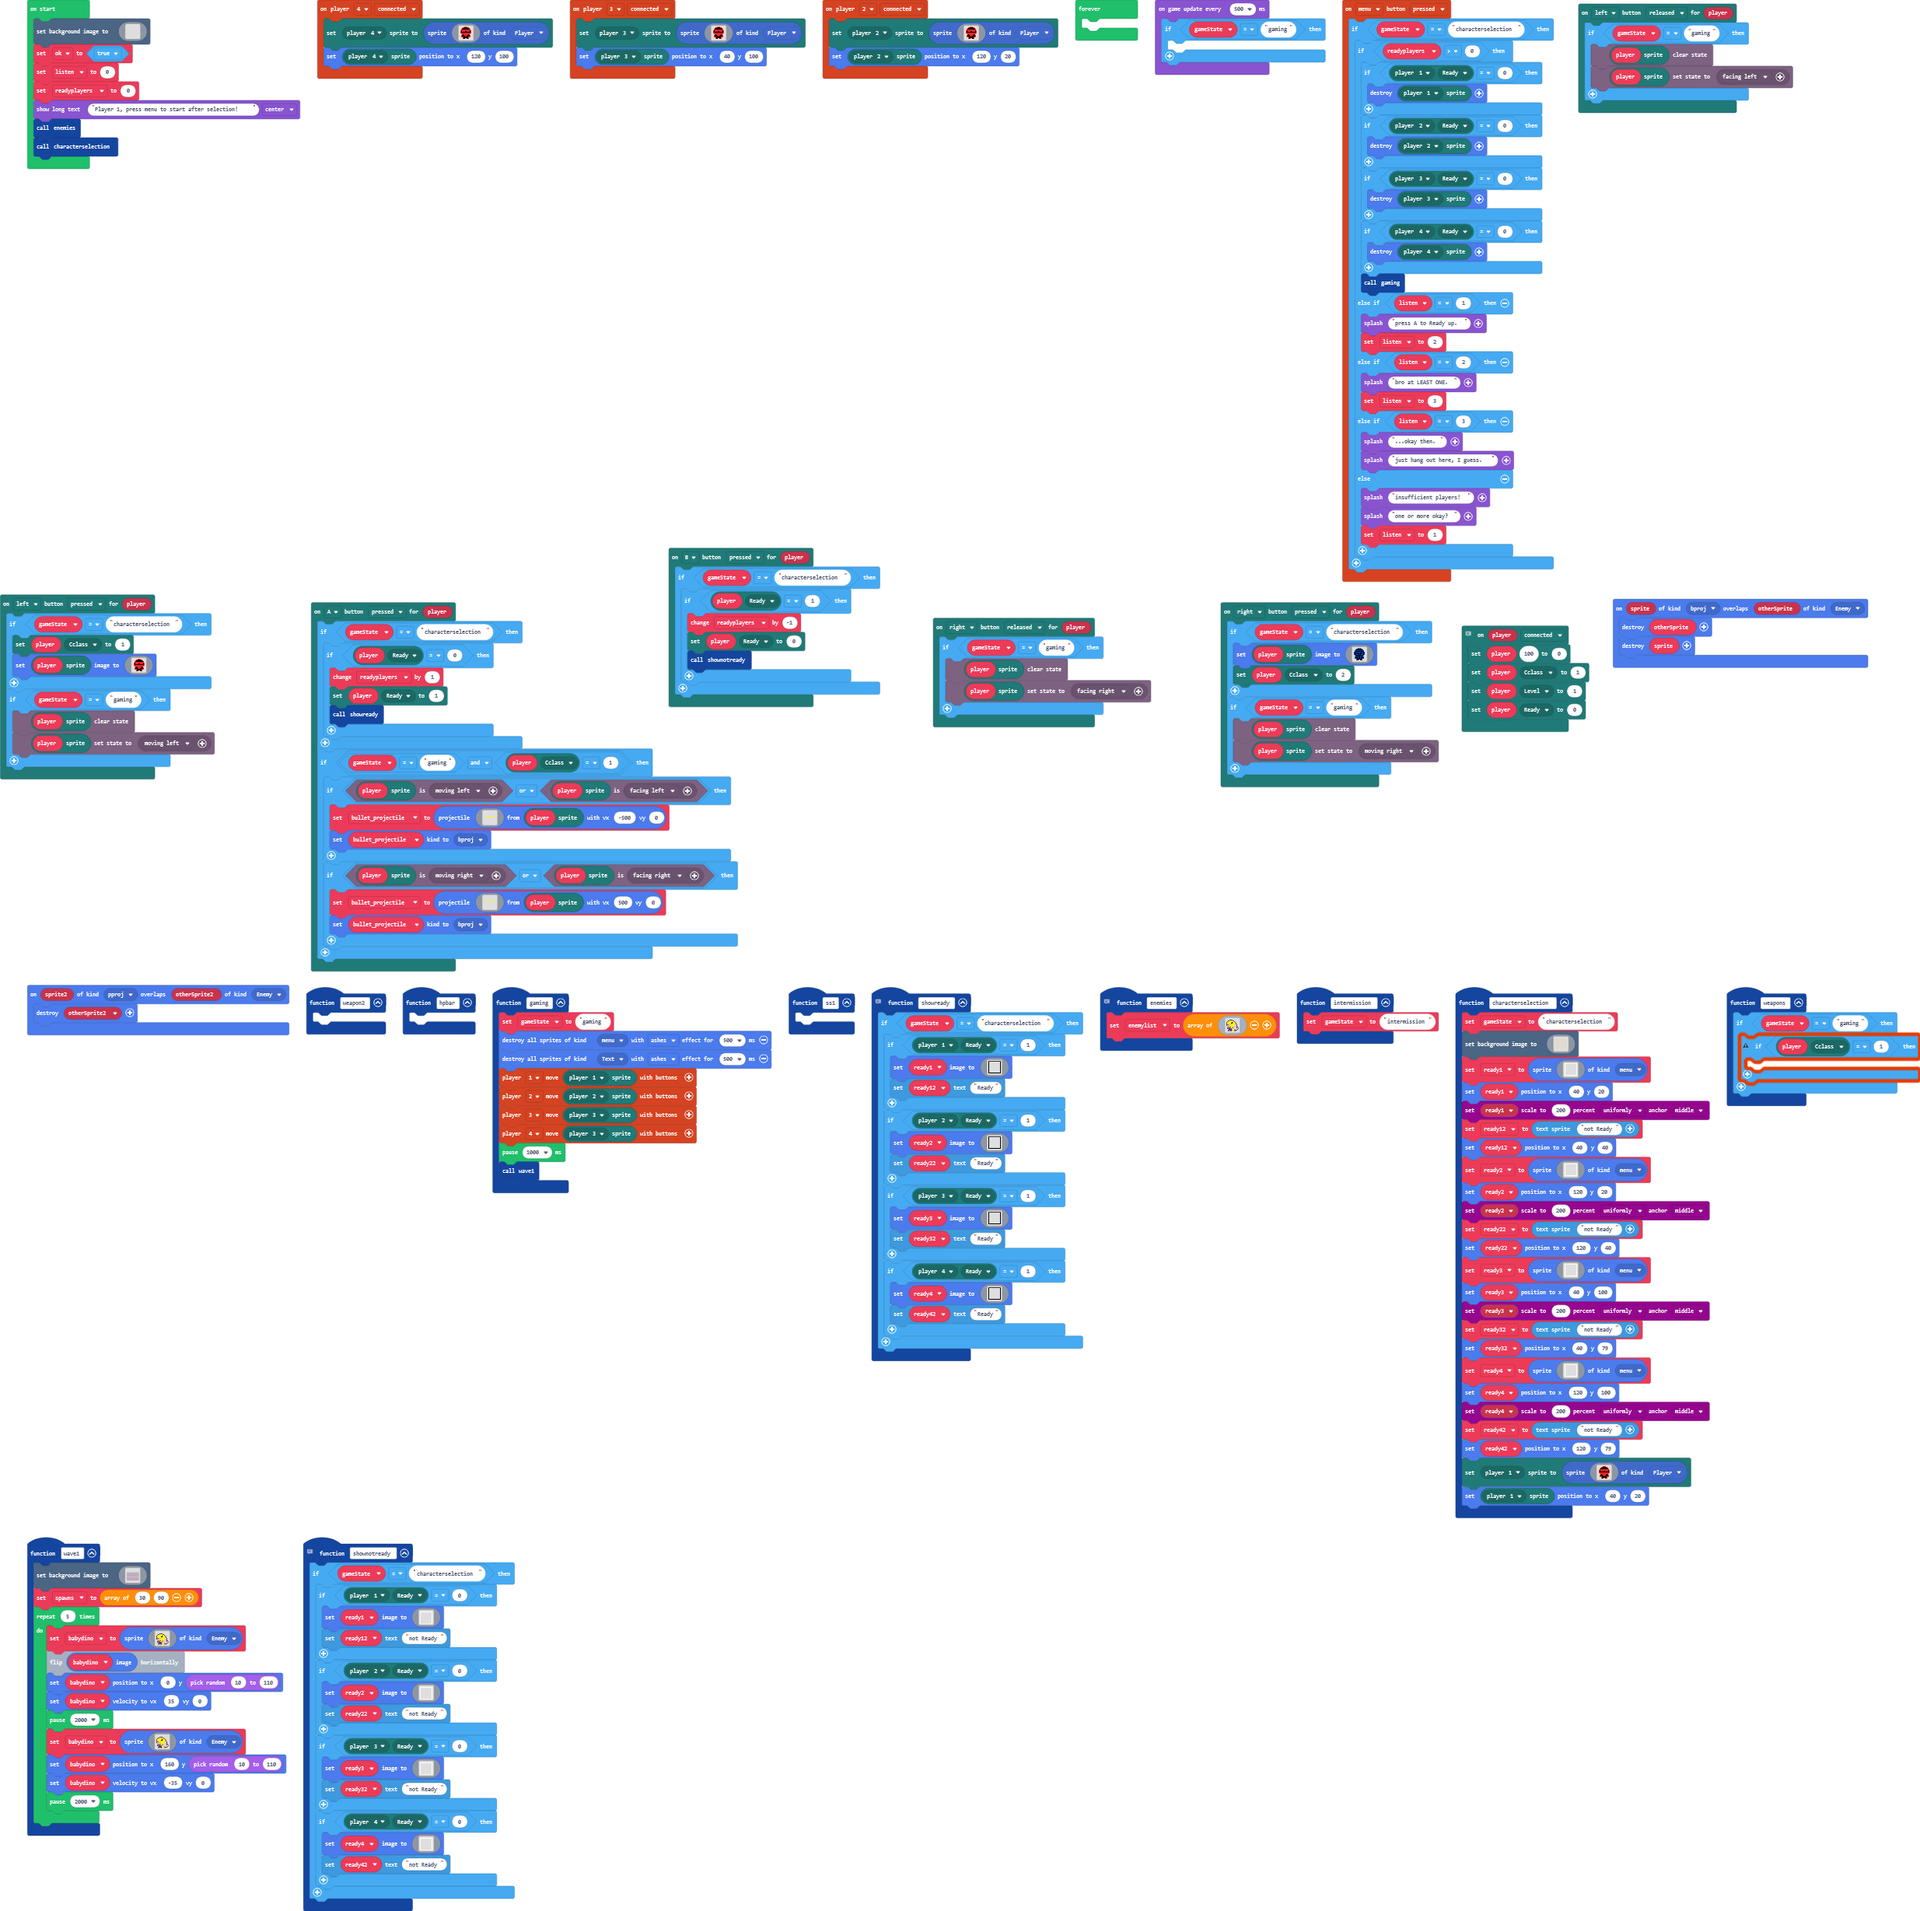
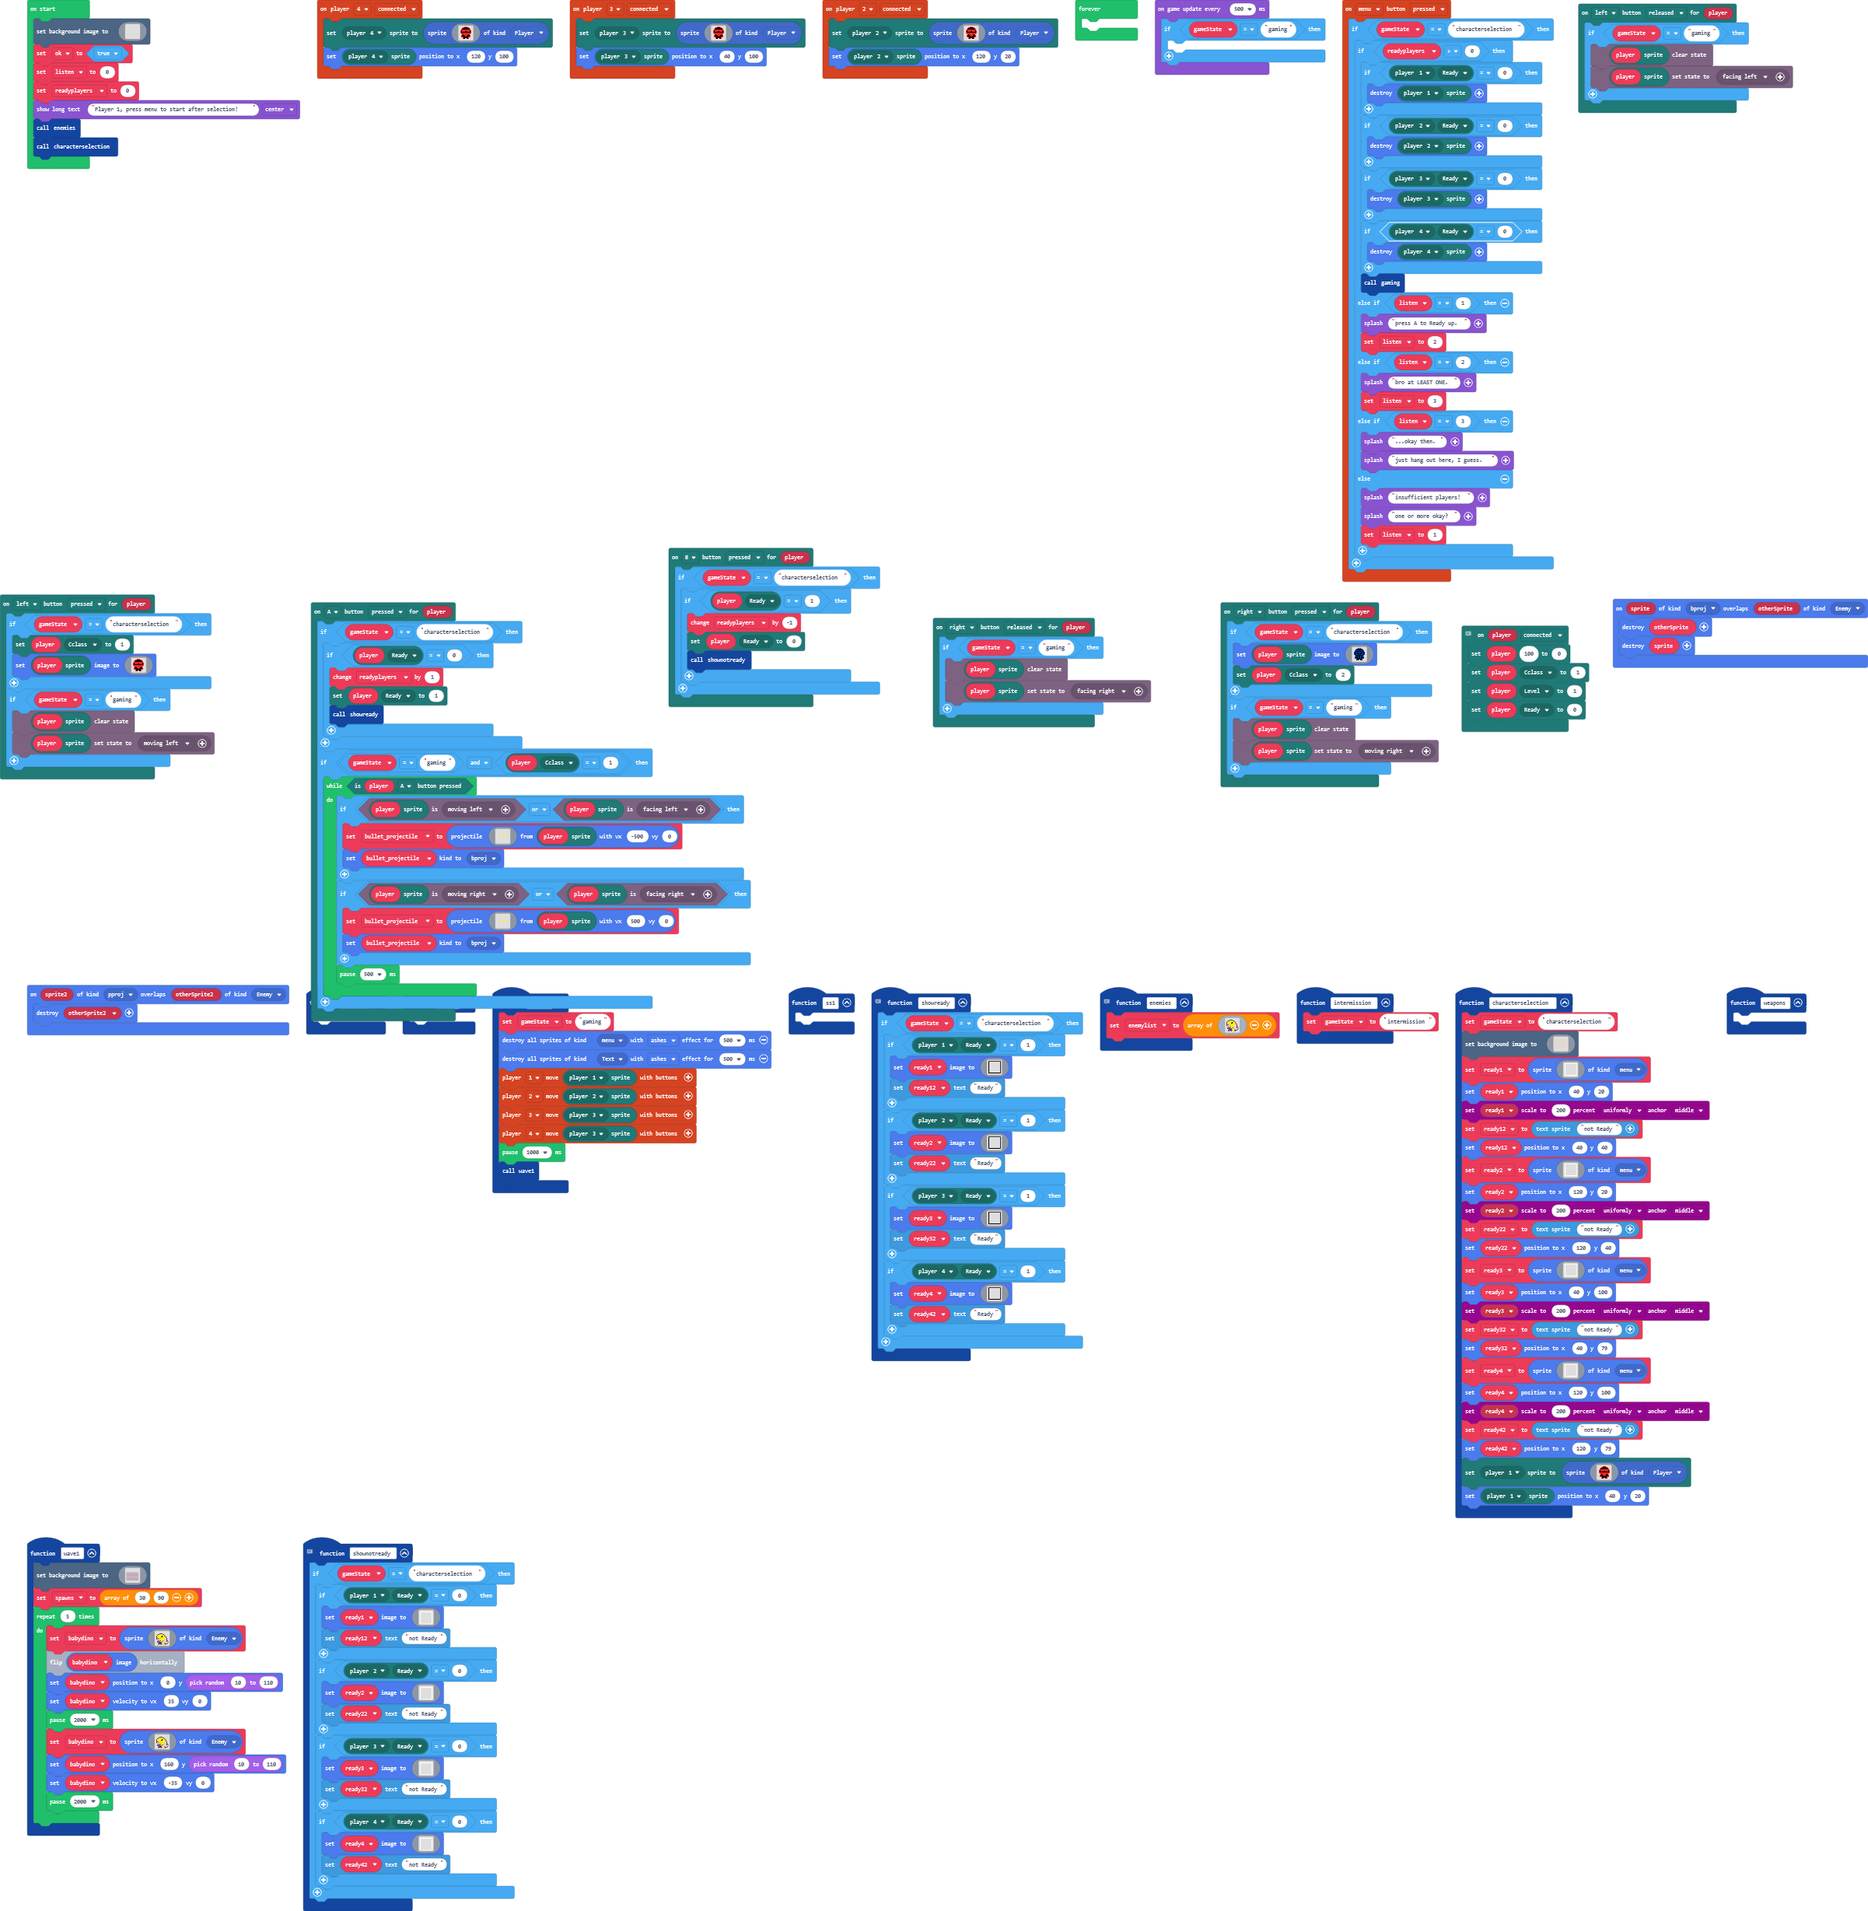
Update main.blocks, main.ts

diff --git a/main.ts b/main.ts
@@ -58,11 +58,7 @@ mp.onButtonEvent(mp.MultiplayerButton.Right, ControllerButtonEvent.Pressed, func
     }
 })
 function weapons () {
-    if (gameState == "gaming") {
-        if (mp.getPlayerState(player2, MultiplayerState.Cclass) == 1) {
-        	
-        }
-    }
+	
 }
 mp.onButtonEvent(mp.MultiplayerButton.Right, ControllerButtonEvent.Released, function (player2) {
     if (gameState == "gaming") {
@@ -79,30 +75,33 @@ mp.onButtonEvent(mp.MultiplayerButton.A, ControllerButtonEvent.Pressed, function
         }
     }
     if (gameState == "gaming" && mp.getPlayerState(player2, MultiplayerState.Cclass) == 1) {
-        if (characterAnimations.matchesRule(mp.getPlayerSprite(player2), characterAnimations.rule(Predicate.MovingLeft)) || characterAnimations.matchesRule(mp.getPlayerSprite(player2), characterAnimations.rule(Predicate.FacingLeft))) {
-            bullet_projectile = sprites.createProjectileFromSprite(img`
-                . . . . . . . . . . . . . . . . 
-                . . . . . . . . . . . . . . . . 
-                . . . . . . . . . . . . . . . . 
-                . . . . . . . . . . . . . . . . 
-                . . . . . . . . . . . . . . . . 
-                . . . . . . . . . . . . . . . . 
-                . . . . . . . . . . . . . . . . 
-                . . . 5 5 5 5 5 5 5 5 5 5 5 . . 
-                . . . . . . . . . . . . . . . . 
-                . . . . . . . . . . . . . . . . 
-                . . . . . . . . . . . . . . . . 
-                . . . . . . . . . . . . . . . . 
-                . . . . . . . . . . . . . . . . 
-                . . . . . . . . . . . . . . . . 
-                . . . . . . . . . . . . . . . . 
-                . . . . . . . . . . . . . . . . 
-                `, mp.getPlayerSprite(player2), -500, 0)
-            bullet_projectile.setKind(SpriteKind.bproj)
-        }
-        if (characterAnimations.matchesRule(mp.getPlayerSprite(player2), characterAnimations.rule(Predicate.MovingRight)) || characterAnimations.matchesRule(mp.getPlayerSprite(player2), characterAnimations.rule(Predicate.FacingRight))) {
-            bullet_projectile = sprites.createProjectileFromSprite(assets.image`bullet projectile`, mp.getPlayerSprite(player2), 500, 0)
-            bullet_projectile.setKind(SpriteKind.bproj)
+        while (mp.isButtonPressed(player2, mp.MultiplayerButton.A)) {
+            if (characterAnimations.matchesRule(mp.getPlayerSprite(player2), characterAnimations.rule(Predicate.MovingLeft)) || characterAnimations.matchesRule(mp.getPlayerSprite(player2), characterAnimations.rule(Predicate.FacingLeft))) {
+                bullet_projectile = sprites.createProjectileFromSprite(img`
+                    . . . . . . . . . . . . . . . . 
+                    . . . . . . . . . . . . . . . . 
+                    . . . . . . . . . . . . . . . . 
+                    . . . . . . . . . . . . . . . . 
+                    . . . . . . . . . . . . . . . . 
+                    . . . . . . . . . . . . . . . . 
+                    . . . . . . . . . . . . . . . . 
+                    . . . 5 5 5 5 5 5 5 5 5 5 5 . . 
+                    . . . . . . . . . . . . . . . . 
+                    . . . . . . . . . . . . . . . . 
+                    . . . . . . . . . . . . . . . . 
+                    . . . . . . . . . . . . . . . . 
+                    . . . . . . . . . . . . . . . . 
+                    . . . . . . . . . . . . . . . . 
+                    . . . . . . . . . . . . . . . . 
+                    . . . . . . . . . . . . . . . . 
+                    `, mp.getPlayerSprite(player2), -500, 0)
+                bullet_projectile.setKind(SpriteKind.bproj)
+            }
+            if (characterAnimations.matchesRule(mp.getPlayerSprite(player2), characterAnimations.rule(Predicate.MovingRight)) || characterAnimations.matchesRule(mp.getPlayerSprite(player2), characterAnimations.rule(Predicate.FacingRight))) {
+                bullet_projectile = sprites.createProjectileFromSprite(assets.image`bullet projectile`, mp.getPlayerSprite(player2), 500, 0)
+                bullet_projectile.setKind(SpriteKind.bproj)
+            }
+            pause(500)
         }
     }
 })
